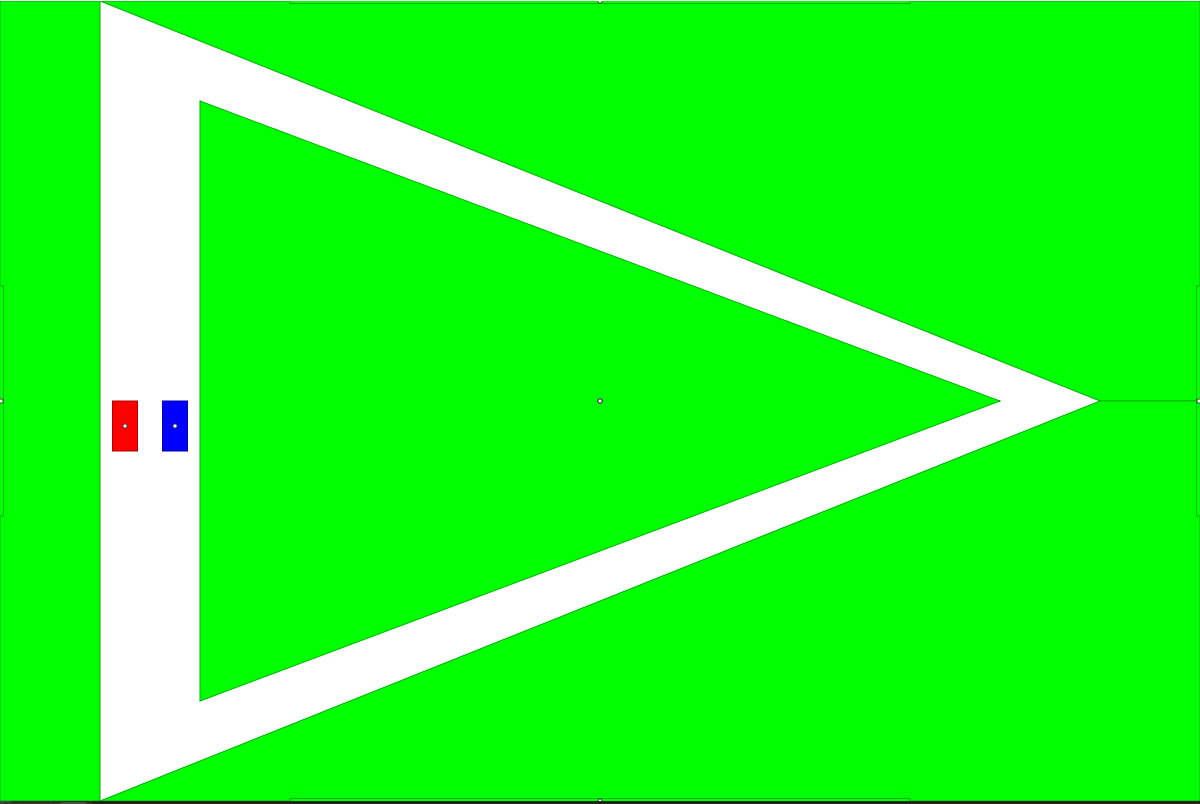
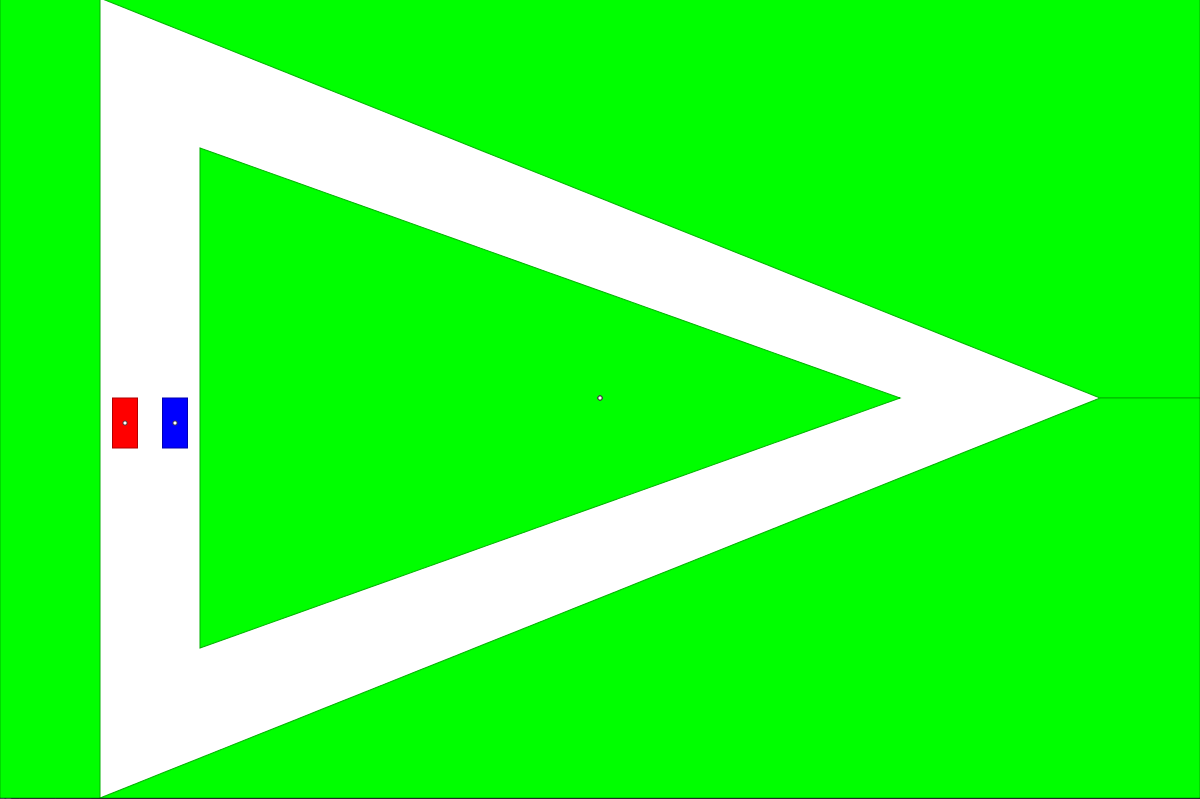
updates track 2 and track2.jpg

diff --git a/com/justin/bokus/src/graphics/tracks/Track2.java b/com/justin/bokus/src/graphics/tracks/Track2.java
@@ -33,30 +33,6 @@ public class Track2 {
                 new Vector2(-500, -400), new Vector2(600, -400), new Vector2(600,  0), new Vector2(500, 0)));
         world.addBody(bottomRight);
 
-        SimulationBody edgeL = new SimulationBody(Color.green);
-        edgeL.setMass(MassType.INFINITE);
-        edgeL.addFixture(Geometry.createRectangle(5, 230));
-        edgeL.translate(-599, 0);
-        world.addBody(edgeL);
-
-        SimulationBody edgeU = new SimulationBody(Color.green);
-        edgeU.setMass(MassType.INFINITE);
-        edgeU.addFixture(Geometry.createRectangle(620, 5));
-        edgeU.translate(0, 400);
-        world.addBody(edgeU);
-
-        SimulationBody edgeD = new SimulationBody(Color.green);
-        edgeD.setMass(MassType.INFINITE);
-        edgeD.addFixture(Geometry.createRectangle(620, 5));
-        edgeD.translate(0, -400);
-        world.addBody(edgeD);
-
-        SimulationBody edgeR = new SimulationBody(Color.green);
-        edgeR.setMass(MassType.INFINITE);
-        edgeR.addFixture(Geometry.createRectangle(5, 230));
-        edgeR.translate(599, 0);
-        world.addBody(edgeR);
-
         car.translate(-475, -25);
 
         car1.translate(-425, -25);

diff --git a/com/justin/bokus/src/graphics/GameWorld.java b/com/justin/bokus/src/graphics/GameWorld.java
@@ -6,7 +6,6 @@ import cpu.old.Car;
 import cpu.utils.Instruction;
 import framework.SimulationBody;
 import framework.SimulationFrame;
-import graphics.tracks.Track2;
 import org.dyn4j.collision.narrowphase.Sat;
 import org.dyn4j.dynamics.World;
 import org.dyn4j.geometry.Geometry;
